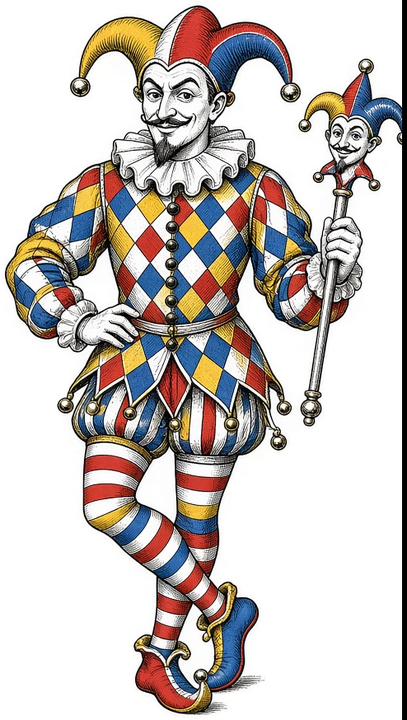
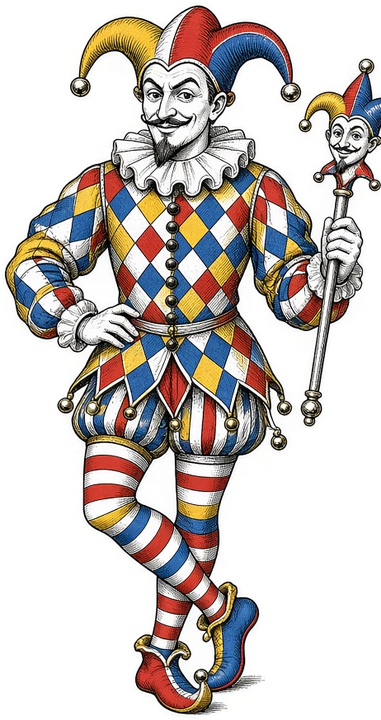
docs(design-review-2): Joker card fixed — stray edge line (crop artefact) trimmed, no inner frame, crisp stacked indices, card rendered at full size (Sree, Nov 23)

diff --git a/rummy-home3/docs/design-review-2/mockups/make-sign-in-joker-mockup.py b/rummy-home3/docs/design-review-2/mockups/make-sign-in-joker-mockup.py
@@ -24,14 +24,37 @@ before = Image.open(os.path.join(HERE, 'small-sign-in-before.png')).convert('RGB
 light = Image.open(ns['render']('sign-in', 'light', pns['B_LIGHT'])).convert('RGB')
 dark = Image.open(ns['render']('sign-in', 'dark', pns['B_DARK'])).convert('RGB')
 
-# the card alone, big, so the drawing can be judged
-card = light.crop((light.width // 2 - 150, 90, light.width // 2 + 150, 420))
-card = card.resize((card.width * 2, card.height * 2), Image.LANCZOS)
+# the card alone, rendered at full size (not an upscale of the phone — Sree, Nov 23: "the word Joker on the left side
+# is also not clear"): same CSS, the card 3× larger, Chrome at 2× → every stroke crisp
+import subprocess, tempfile, shutil
+def render_card():
+    css = ns['CSS'].replace('width:90px;height:140px', 'width:270px;height:420px').replace('height:112px', 'height:336px') \
+        .replace('font:700 9px/1.05', 'font:700 27px/1.05').replace('width:9px', 'width:27px') \
+        .replace('.ix.tl{left:6px;top:7px}', '.ix.tl{left:18px;top:21px}').replace('.ix.br{right:6px;bottom:7px', '.ix.br{right:18px;bottom:21px') \
+        .replace('border-radius:7px;box-shadow:0 6px 16px', 'border-radius:21px;box-shadow:0 18px 48px')
+    tokens = pns['B_LIGHT']
+    html = ('<!doctype html><html><head><meta charset="utf-8"><style>:root{' + ';'.join(f'--{k}:{v}' for k, v in tokens.items()) + '}' + css
+            + 'html,body{width:412px;height:560px;background:var(--felt)}.felt{padding:0;height:560px;display:flex;align-items:center;justify-content:center}.felt .cardwrap{height:auto;margin:0}'
+            + '</style></head><body>' + f'<div class="felt"><div class="cardwrap"><div class="pcard"><span class="ix tl">J\nO\nK\nE\nR</span><img src="file://{HERE}/joker-figure.png"><span class="ix br">J\nO\nK\nE\nR</span></div></div></div>' + '</body></html>')
+    d = tempfile.mkdtemp()
+    p = os.path.join(d, 'c.html'); open(p, 'w').write(html)
+    png = os.path.join(ns['OUT'], 'card.png')
+    proc = subprocess.Popen([ns['CHROME'], '--headless=new', '--no-sandbox', '--disable-gpu', '--hide-scrollbars', '--force-device-scale-factor=2',
+                             f'--user-data-dir={d}/u', '--window-size=412,560', '--virtual-time-budget=1500', f'--screenshot={png}', 'file://' + p],
+                            stdout=subprocess.DEVNULL, stderr=subprocess.DEVNULL)
+    try:
+        proc.wait(timeout=20)
+    except subprocess.TimeoutExpired:
+        proc.kill()
+    assert os.path.exists(png), 'card'
+    shutil.rmtree(d, ignore_errors=True)
+    return Image.open(png).convert('RGB')
+card = render_card()
 
 PAD, GAP, TOP = 36, 40, 110
 H = max(before.height, light.height, dark.height)
 panels = [(before, 'Before (APK v17, CI frame)'), (light, 'After · light · Palette B'), (dark, 'After · dark · Palette B'),
-          (card, 'The card, 2× — an original Joker in the classic\nengraving style; bridge proportions (2¼ × 3½)')]
+          (card, 'The card, rendered at 3× — an original Joker in the classic\nengraving style; bridge proportions (2¼ × 3½); no inner line')]
 W = PAD * 2 + sum(p.width for p, _ in panels) + GAP * (len(panels) - 1)
 sheet = Image.new('RGB', (W, TOP + H + 120), '#F6F6F1')
 d = ImageDraw.Draw(sheet)

diff --git a/rummy-home3/docs/design-review-2/mockups/make-small-mockups.py b/rummy-home3/docs/design-review-2/mockups/make-small-mockups.py
@@ -70,12 +70,13 @@ html,body{width:412px;background:var(--bg);color:var(--onbg);font-family:Roboto,
 .btn.out{border:1px solid var(--outline);color:var(--primary);flex:1}
 .felt{background:var(--felt);color:#fff;text-align:center;padding:26px 16px 70px}
 .felt .cardwrap{height:150px;display:flex;align-items:center;justify-content:center;margin-bottom:6px}
-.felt .pcard{position:relative;width:90px;height:140px;background:#FFFFFF;border-radius:7px;box-shadow:0 6px 16px rgba(0,0,0,.45),0 1px 0 rgba(255,255,255,.25) inset;transform:rotate(-6deg)}
-.felt .pcard:after{content:"";position:absolute;inset:4px;border:1px solid #1E1E1E;border-radius:5px}
-.felt .pcard img{position:absolute;left:50%;top:50%;height:118px;transform:translate(-50%,-50%)}
-.felt .pcard .ix{position:absolute;font:700 6.5px/1 Georgia,"Times New Roman",serif;color:#1E1E1E;letter-spacing:.5px;writing-mode:vertical-rl;text-orientation:upright}
-.felt .pcard .ix.tl{left:7px;top:8px}
-.felt .pcard .ix.br{right:7px;bottom:8px;transform:rotate(180deg)}
+/* Sree, Nov 23: "Why is there a second line inside the Joker card … touching the letters?" — real card faces have no
+   inner frame; gone. Indices larger, a real serif that exists on the box, clear of the figure. */
+.felt .pcard{position:relative;width:90px;height:140px;background:#FFFFFF;border-radius:7px;box-shadow:0 6px 16px rgba(0,0,0,.45);transform:rotate(-6deg);overflow:hidden}
+.felt .pcard img{position:absolute;left:50%;top:50%;height:112px;transform:translate(-44%,-50%)}
+.felt .pcard .ix{position:absolute;font:700 9px/1.05 "Liberation Serif","DejaVu Serif",serif;color:#111;text-align:center;width:9px;white-space:pre-line}
+.felt .pcard .ix.tl{left:6px;top:7px}
+.felt .pcard .ix.br{right:6px;bottom:7px;transform:rotate(180deg)}
 .felt .logo{width:76px;height:76px;border-radius:18px;border:3px solid #F6F6F1;margin:0 auto 12px;background:#0E5A2A;display:flex;align-items:center;justify-content:center;font-size:34px}
 .lbl{display:flex;align-items:center;justify-content:space-between;margin-bottom:5px}
 .lbl label{margin:0}
@@ -172,7 +173,7 @@ def signin():
     body = status()
     # Sree, Nov 23: "just get the Joker card" — an original jester in the classic Bicycle engraving style (not the
     # company's artwork, "ok" to that), on a bridge-size card (2¼ × 3½ — "the regular ones that are smaller in looking size").
-    card = f'<div class="cardwrap"><div class="pcard"><span class="ix tl">JOKER</span><img src="file://{HERE}/joker-figure.png"><span class="ix br">JOKER</span></div></div>'
+    card = f'<div class="cardwrap"><div class="pcard"><span class="ix tl">J\nO\nK\nE\nR</span><img src="file://{HERE}/joker-figure.png"><span class="ix br">J\nO\nK\nE\nR</span></div></div>'
     body += f'<div class="felt">{card}<h1>EZ Score: Rummy</h1><p>Sign in to keep score with your table</p></div>'
     body += '<div class="card">'
     body += '<div class="field"><label>Email</label><div class="box" style="font-variant-numeric:normal;color:var(--muted)">you@example.com</div></div>'

diff --git a/rummy-home3/docs/design-review-2.md b/rummy-home3/docs/design-review-2.md
@@ -578,6 +578,14 @@ card too without touching their screens. Palette B (D65) tokens throughout.
 **What does not change**: `PasscodeField` (digits hidden by default, eye toggles, PR 10b), the validation and error
 copy, `AuthShell`'s keyboard avoidance and landscape split, the help topic (`sign-in`), the `login-*` testIDs.
 
+**Card drawing notes (Sree, Nov 23: "Why is there a second line inside the Joker card from top to bottom that is
+touching the letters? Even the word 'Joker' on the left side is also not clear")**: the line was a crop artefact — five
+black columns from the source card's border left on the right edge of `joker-figure.png`, now trimmed (the build asset
+must be re-cut from the same source, not from the first PNG); the inner frame I had drawn is gone (real card faces have
+none); the indices are stacked letters in a real serif, not a shrunk vertical-text run, and the card panel is rendered
+at full size instead of upscaled. Made by Claude; the jester illustration came from the image generator in Claude's
+toolkit, the card, indices and screens are drawn in code.
+
 **Not the Bicycle artwork**: the figure was drawn for EZ Score; nothing from the US Playing Card Company's decks is
 copied. Keep it that way in the build — no "Bicycle" string, no rider, no their Joker.
 
